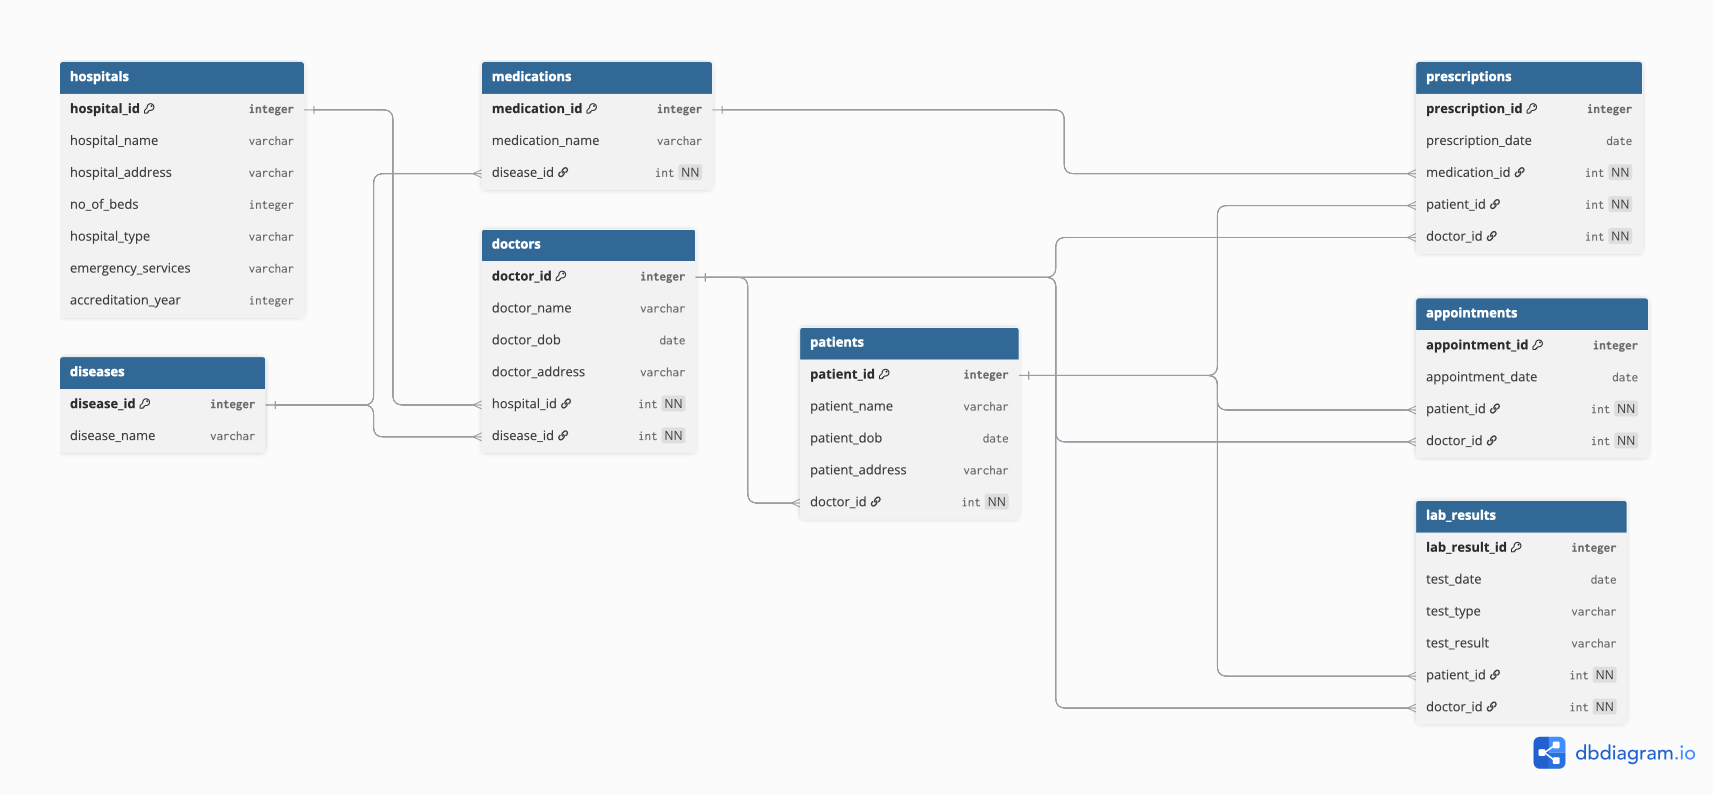
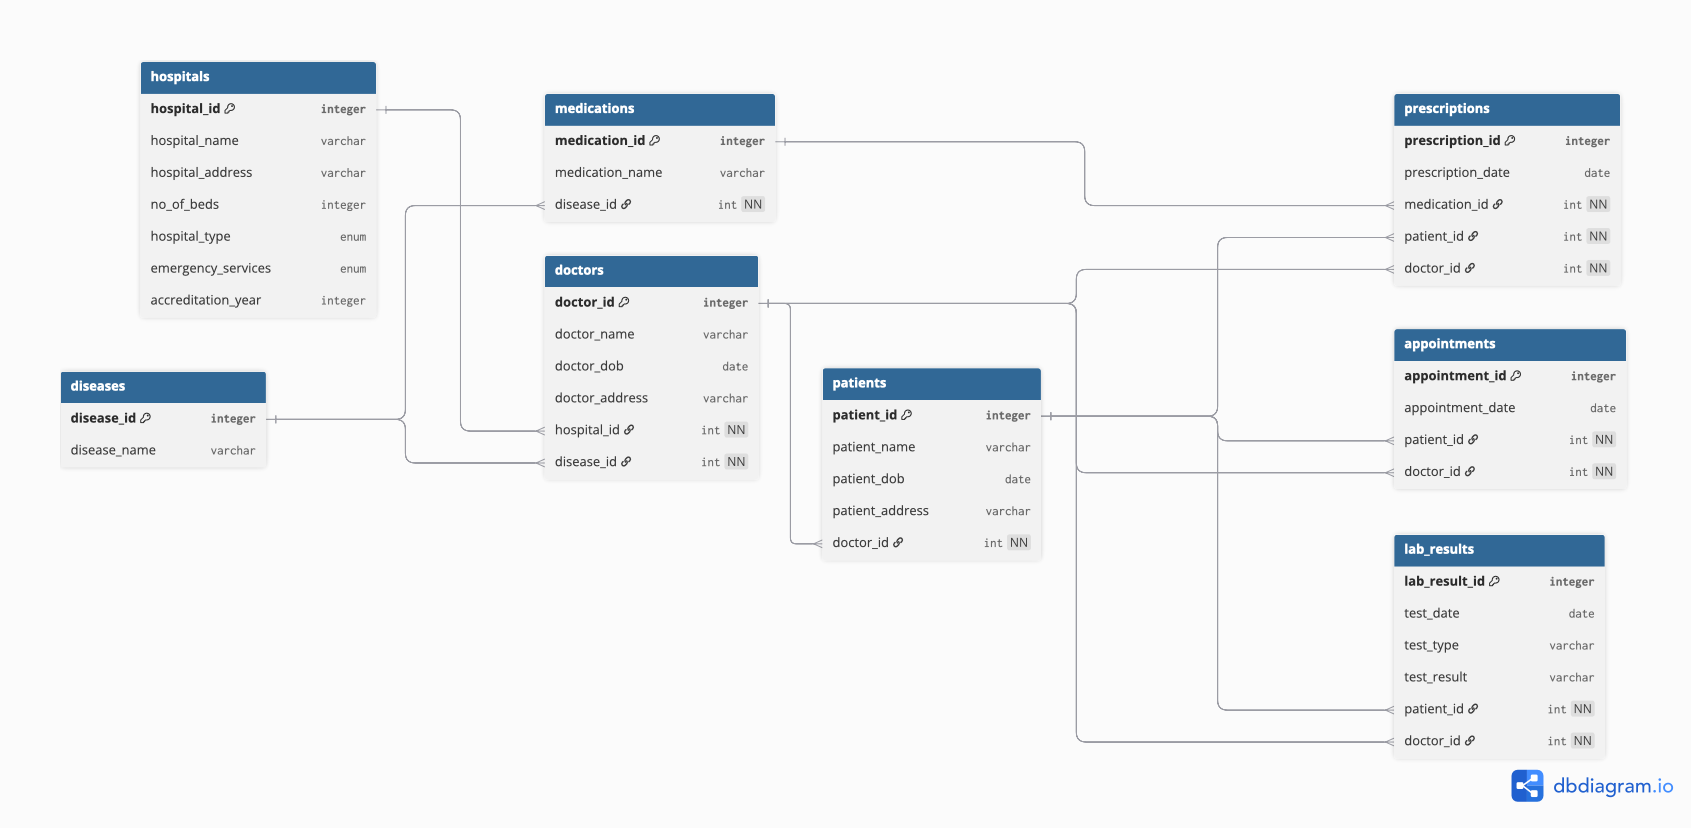
Use ENUM datatype for hospital_type and emergency_services in hospitals table instead of VARCHAR

diff --git a/README.md b/README.md
@@ -172,8 +172,8 @@ hospital_id INT PRIMARY KEY,
 hospital_name VARCHAR(150),
 hospital_address VARCHAR(150),
 no_of_beds INT,
-hospital_type VARCHAR(20),
-emergency_services VARCHAR(10),
+hospital_type ENUM('General', 'Specialist', 'Teaching'),
+emergency_services ENUM('Yes', 'No'),
 accreditation_year INT
 );
 ```
